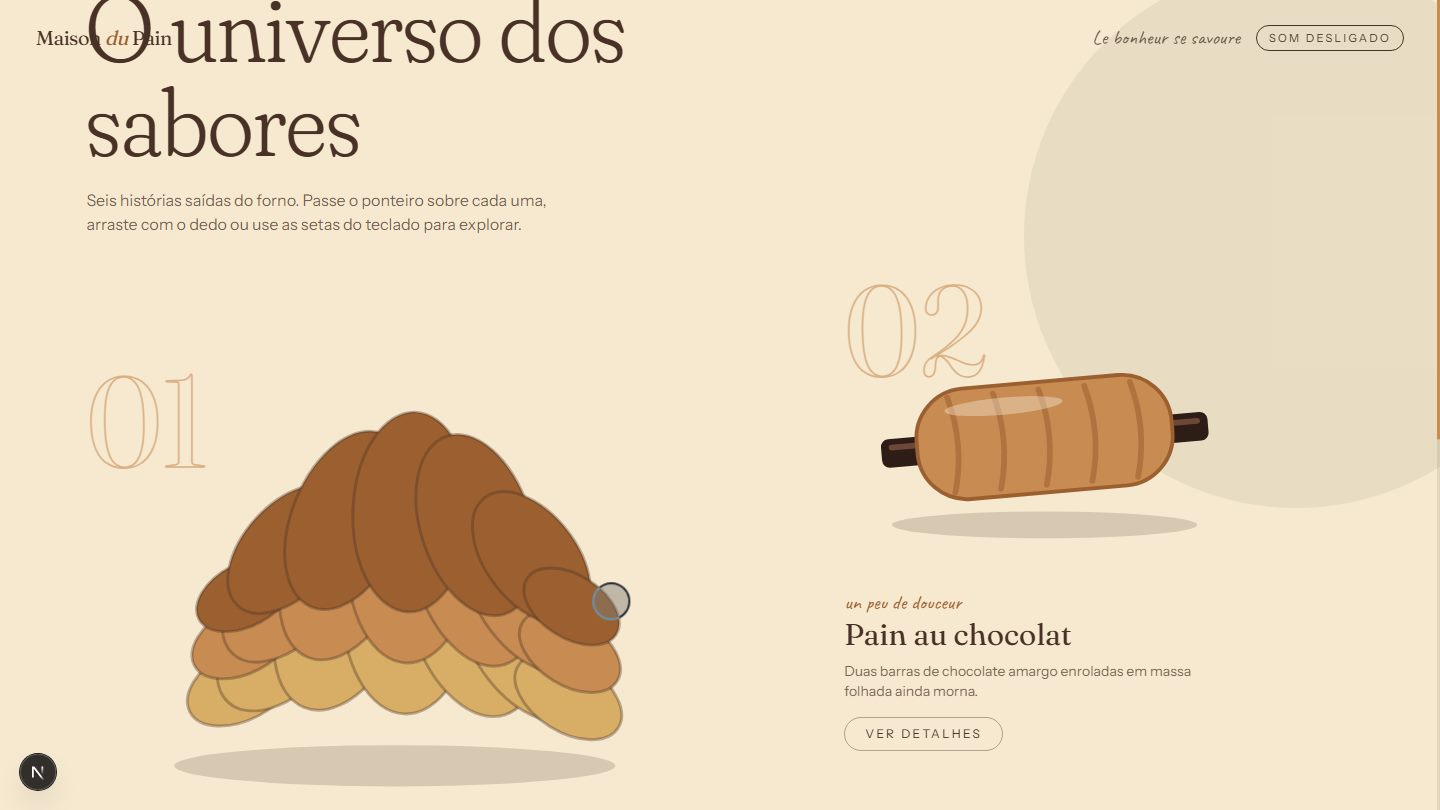
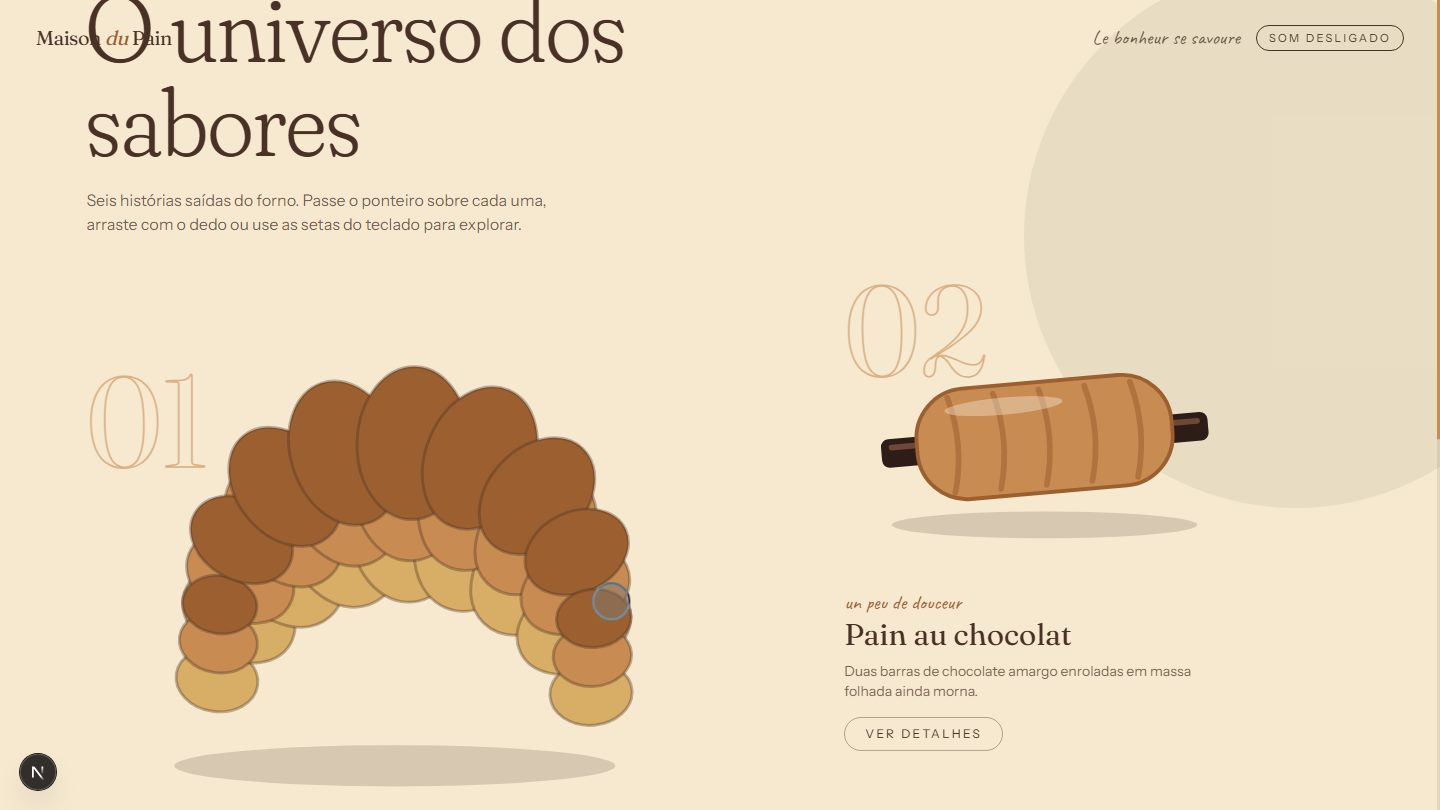
perf: replace svg grain filter with static texture and pause offscreen animations
Add a portrait framing for the exterior scenes, refine the baguette, 2D croissant and bread finale, and fix the header tone on the dark final scene.

Changed region(s): [[0.125, 0.4321, 0.4375, 0.9259]]

diff --git a/src/components/scenes/flavors/illustrations/Breads.tsx b/src/components/scenes/flavors/illustrations/Breads.tsx
@@ -1,4 +1,4 @@
-const LOAF = "M30 124Q30 92 72 86L486 58Q538 56 538 88Q538 118 486 128L72 156Q30 158 30 124Z";
+const LOAF = "M20 128Q34 96 90 86L482 52Q548 48 548 88Q548 126 482 136L90 160Q34 158 20 128Z";
 const SCORES = [96, 186, 276, 366, 446];
 const CRUMB_HOLES = [
   [90, 112, 9], [150, 100, 6], [210, 118, 11], [262, 96, 7], [320, 110, 10], [376, 92, 6], [430, 104, 9], [490, 90, 7],
@@ -13,21 +13,32 @@ export function BaguetteArt() {
           <stop offset="0" stopColor="var(--color-gold)" />
           <stop offset="1" stopColor="var(--color-crust)" />
         </linearGradient>
+        <linearGradient id="crumbTone" x1="0" y1="0" x2="0" y2="1">
+          <stop offset="0" stopColor="var(--color-cream)" />
+          <stop offset="1" stopColor="var(--color-butter)" />
+        </linearGradient>
+        <clipPath id="loafClip">
+          <path d={LOAF} />
+        </clipPath>
       </defs>
       <g className="fb" style={{ transform: "rotate(-7deg)" }}>
         <ellipse cx="285" cy="176" rx="250" ry="12" fill="var(--color-chocolate)" opacity="0.18" />
         <path d={LOAF} fill="url(#crustTone)" stroke="var(--color-crust)" strokeWidth="4" />
         {SCORES.map((x) => (
-          <path key={x} d={`M${x} 124Q${x + 30} 82 ${x + 62} 78`} stroke="var(--color-cream)" strokeWidth="9" fill="none" strokeLinecap="round" opacity="0.8" />
+          <path key={x} d={`M${x} 126Q${x + 30} 86 ${x + 62} 80`} stroke="var(--color-cream)" strokeWidth="9" fill="none" strokeLinecap="round" opacity="0.8" />
         ))}
         {/* Miolo: o clip-path revela a textura interna conforme o ponteiro avança pela baguete. */}
         <g className="fb" style={{ clipPath: "inset(0 calc((1 - var(--v)) * 100%) 0 0)" }}>
-          <path d={LOAF} fill="var(--color-cream)" stroke="var(--color-butter)" strokeWidth="4" />
-          {CRUMB_HOLES.map(([x, y, r]) => (
-            <ellipse key={`${x}-${y}`} cx={x} cy={y} rx={r * 1.3} ry={r} fill="var(--color-butter)" stroke="var(--color-gold)" strokeOpacity="0.5" strokeWidth="1.5" />
-          ))}
+          <g clipPath="url(#loafClip)">
+            <rect x="0" y="40" width="570" height="130" fill="url(#crumbTone)" />
+            {CRUMB_HOLES.map(([x, y, r]) => (
+              <ellipse key={`${x}-${y}`} cx={x} cy={y} rx={r * 1.3} ry={r} fill="var(--color-butter)" stroke="var(--color-gold)" strokeOpacity="0.55" strokeWidth="1.5" />
+            ))}
+            {/* A casca aparece como aro dourado no corte; o clip mantém só a metade interna do traço. */}
+            <path d={LOAF} fill="none" stroke="url(#crustTone)" strokeWidth="18" />
+          </g>
         </g>
-        <rect x="26" y="50" width="4" height="116" rx="2" fill="var(--color-cream)" style={{ transform: "translateX(calc(var(--v) * 510px))" }} opacity="0.9" />
+        <rect x="26" y="40" width="4" height="132" rx="2" fill="var(--color-cream)" style={{ transform: "translateX(calc(var(--v) * 510px))" }} opacity="0.9" />
       </g>
     </svg>
   );

diff --git a/src/components/scenes/awakening/Illustration.tsx b/src/components/scenes/awakening/Illustration.tsx
@@ -1,4 +1,5 @@
-import { VIEWBOX, type LayerId } from "@/config/awakening";
+import { VIEWBOX, VIEWBOX_PORTRAIT, type LayerId } from "@/config/awakening";
+import { useMediaQuery } from "@/hooks/useMediaQuery";
 import { Clouds, Sky, Town } from "./layers/Backdrop";
 import { Facade } from "./layers/Facade";
 import { Foreground, Trees } from "./layers/Flora";
@@ -18,19 +19,19 @@ function Layer({ id, children }: { id: LayerId; children: ReactNode }) {
 }
 
 export function Illustration({ dusk = false }: { dusk?: boolean }) {
+  // Em retrato o viewBox fica alto e estreito: a fachada inteira cabe, em vez de só a janela central.
+  const portrait = useMediaQuery("(max-aspect-ratio: 4/5)");
+  const box = portrait ? VIEWBOX_PORTRAIT : { x: 0, y: 0, ...VIEWBOX };
+
   return (
     <svg
-      viewBox={`0 0 ${VIEWBOX.width} ${VIEWBOX.height}`}
+      viewBox={`${box.x} ${box.y} ${box.width} ${box.height}`}
       preserveAspectRatio="xMidYMid slice"
       className="absolute inset-0 h-full w-full"
       role="img"
       aria-label={dusk ? "Ilustração da fachada da Maison du Pain ao entardecer: janelas acesas, rua de paralelepípedos dourada e mesas na calçada." : "Ilustração da fachada da Maison du Pain ao amanhecer: sobrado francês com flores nas janelas, mesas na calçada, árvores e uma chaminé soltando fumaça."}
     >
       <defs>
-        <filter id="paperGrain" x="0" y="0" width="100%" height="100%">
-          <feTurbulence type="fractalNoise" baseFrequency="0.9" numOctaves="2" seed="7" />
-          <feColorMatrix values="0 0 0 0 0.29  0 0 0 0 0.19  0 0 0 0 0.15  0 0 0 0.9 -0.28" />
-        </filter>
         <radialGradient id="vignette" cx="50%" cy="50%" r="75%">
           <stop offset="0.55" stopColor="var(--color-chocolate)" stopOpacity="0" />
           <stop offset="1" stopColor="var(--color-chocolate)" stopOpacity="0.35" />
@@ -46,9 +47,8 @@ export function Illustration({ dusk = false }: { dusk?: boolean }) {
       <Layer id="props"><Props /></Layer>
       <Layer id="foreground"><Foreground /></Layer>
 
-      <rect data-fx="dawnTint" width={VIEWBOX.width} height={VIEWBOX.height} fill={dusk ? "var(--color-dusk)" : "var(--color-rose)"} style={{ opacity: dusk ? 0 : 0.38, mixBlendMode: "multiply" }} />
-      <rect width={VIEWBOX.width} height={VIEWBOX.height} fill="url(#vignette)" />
-      <rect className="grain" width={VIEWBOX.width} height={VIEWBOX.height} filter="url(#paperGrain)" opacity="0.5" style={{ mixBlendMode: "multiply" }} />
+      <rect data-fx="dawnTint" x={box.x} y={box.y} width={box.width} height={box.height} fill={dusk ? "var(--color-dusk)" : "var(--color-rose)"} style={{ opacity: dusk ? 0 : 0.38, mixBlendMode: "multiply" }} />
+      <rect x={box.x} y={box.y} width={box.width} height={box.height} fill="url(#vignette)" />
     </svg>
   );
 }

diff --git a/src/components/scenes/process/layers/Kitchen.tsx b/src/components/scenes/process/layers/Kitchen.tsx
@@ -152,6 +152,9 @@ export function Oven() {
       <path d="M1160 700V540A140 140 0 0 1 1440 540V700Z" fill="url(#processBricks)" stroke="var(--color-ink)" strokeOpacity="0.4" strokeWidth="3" />
       <path d={OVEN_MOUTH_PATH} fill="var(--color-ink)" />
       <path data-el="glow" d={OVEN_MOUTH_PATH} fill="url(#processFire)" />
+      {[0, 1, 2, 3, 4].map((i) => (
+        <circle key={i} className="amb-spark" cx={1262 + i * 19} cy={620 - (i % 2) * 14} r={2.2 + (i % 3)} fill="var(--color-gold)" style={{ ["--delay" as string]: `${i * 0.5}s` }} />
+      ))}
       <g clipPath="url(#ovenMouthClip)">
         <g data-el="door">
           <path d={OVEN_MOUTH_PATH} fill="var(--color-chocolate)" stroke="var(--color-ink)" strokeWidth="5" />
@@ -166,7 +169,12 @@ export function Oven() {
 export function Bread() {
   return (
     <g data-el="bread" style={{ opacity: 0 }}>
-      <ellipse cx="0" cy="8" rx="120" ry="16" fill="var(--color-ink)" opacity="0.25" />
+      <ellipse cx="0" cy="14" rx="150" ry="20" fill="var(--color-ink)" opacity="0.25" />
+      <path d="M-150 2Q-150 -8 -138 -8H138Q150 -8 150 2V10Q150 20 138 20H-138Q-150 20 -150 10Z" fill="var(--color-crust)" stroke="var(--color-chocolate)" strokeWidth="3" />
+      <rect x="-146" y="-8" width="292" height="6" rx="3" fill="var(--color-gold)" opacity="0.7" />
+      {[[-96, -14, 4], [-60, -12, 3], [70, -13, 4], [104, -11, 3], [128, -12, 2.5]].map(([x, y, r]) => (
+        <circle key={`${x}-${y}`} cx={x} cy={y} r={r} fill="var(--color-cream)" opacity="0.85" />
+      ))}
       <defs>
         <radialGradient id="processBoule" cx="42%" cy="30%" r="80%">
           <stop offset="0" stopColor="var(--color-gold)" />

diff --git a/src/components/scenes/flavors/illustrations/Pastries.tsx b/src/components/scenes/flavors/illustrations/Pastries.tsx
@@ -1,24 +1,29 @@
 /** Cada ilustração lê `--v`, `--px` e `--py` do `ProductStage` que a envolve. */
 
-const SEGMENTS = Array.from({ length: 7 }, (_, index) => {
-  const t = (index - 3) / 3;
-  const theta = t * 1.05;
-  const size = 0.38 + 0.62 * Math.cos((t * Math.PI) / 2);
+/**
+ * Cristas ao longo de um arco em "∩" cujas pontas se enrolam para baixo, como as pontas do croissant.
+ * Cada crista é alongada na direção radial (perpendicular ao arco) e as vizinhas se sobrepõem.
+ */
+const ARC_RADIUS = 128;
+const ARC_CENTER = { x: 210, y: 196 };
+const SEGMENTS = Array.from({ length: 9 }, (_, index) => {
+  const t = (index - 4) / 4;
+  const phi = t * (84 * Math.PI) / 180;
+  const size = 0.3 + 0.7 * Math.pow(Math.cos((t * Math.PI) / 2), 0.9);
   return {
     key: index,
-    x: 210 + 128 * Math.sin(theta),
-    y: 120 + 120 * (1 - Math.cos(theta)),
-    // A crista é perpendicular ao arco: inclina para dentro, não para fora.
-    angle: (-theta * 180) / Math.PI,
-    rx: 30 * size + 10,
-    ry: 52 * size + 16,
+    x: ARC_CENTER.x + ARC_RADIUS * Math.sin(phi),
+    y: ARC_CENTER.y - ARC_RADIUS * Math.cos(phi),
+    angle: (phi * 180) / Math.PI,
+    rx: 26 * size + 12,
+    ry: 38 * size + 14,
   };
 });
 
 const CROISSANT_LAYERS = [
-  { fill: "var(--color-gold)", offset: 36, grow: 1.12 },
-  { fill: "var(--color-caramel)", offset: 0, grow: 1.06 },
-  { fill: "var(--color-crust)", offset: -36, grow: 1 },
+  { fill: "var(--color-gold)", offset: 30, grow: 1.1 },
+  { fill: "var(--color-caramel)", offset: 0, grow: 1.05 },
+  { fill: "var(--color-crust)", offset: -30, grow: 1 },
 ] as const;
 
 export function CroissantArt() {

diff --git a/src/components/scenes/process/Scene05Process.tsx b/src/components/scenes/process/Scene05Process.tsx
@@ -2,6 +2,7 @@
 
 import { useRef } from "react";
 import { STAGES } from "@/config/process";
+import { Grain } from "@/components/ui/Grain";
 import { useReducedMotion } from "@/hooks/useMediaQuery";
 import { Illustration } from "./Illustration";
 import { useProcessTimeline } from "./useProcessTimeline";
@@ -14,6 +15,7 @@ export function Scene05Process() {
   return (
     <section ref={rootRef} data-scene="process" data-static={reduced} aria-labelledby="processo" className="relative h-svh w-full overflow-hidden bg-butter">
       <Illustration />
+      <Grain />
 
       <div data-ui="captionA" className="pointer-events-none absolute inset-x-0 top-[12svh] z-10 px-6 text-center will-change-transform" style={{ opacity: reduced ? 1 : 0 }}>
         <h2
@@ -31,6 +33,15 @@ export function Scene05Process() {
         style={{ opacity: reduced ? 1 : 0 }}
       >
         Está no tempo, no cuidado e no amor por cada detalhe.
+      </p>
+
+      <p
+        data-ui="captionC"
+        lang="fr"
+        className="pointer-events-none absolute inset-x-0 top-[14svh] z-10 px-6 text-center font-hand text-[clamp(2rem,4.4vw,3.8rem)] text-chocolate will-change-transform"
+        style={{ opacity: reduced ? 0 : 0, textShadow: "0 2px 18px rgba(255,249,239,.7)" }}
+      >
+        Chaque bouchée raconte une histoire.
       </p>
 
       <ol aria-label="Etapas do processo" className="absolute bottom-[3svh] left-1/2 z-10 flex w-max max-w-[94vw] -translate-x-1/2 flex-wrap justify-center gap-x-5 gap-y-1 rounded-3xl bg-cream/85 px-5 py-2 text-[0.7rem] uppercase tracking-[0.22em] text-chocolate/75 shadow-sm backdrop-blur sm:gap-x-8">

diff --git a/tests/awakening.spec.ts b/tests/awakening.spec.ts
@@ -297,3 +297,23 @@ test.describe("acessibilidade e preferências", () => {
     await expect(page.getByRole("link", { name: "Ir para o conteúdo" })).toHaveCount(1);
   });
 });
+
+test("cena 01 e 06 em retrato mostram a fachada inteira", async ({ browser }) => {
+  const context = await browser.newContext({ viewport: { width: 390, height: 844 }, reducedMotion: "no-preference", hasTouch: true });
+  const page = await context.newPage();
+  await skipLoader(page);
+  await page.waitForTimeout(2_000);
+  await page.screenshot({ path: `${SHOTS}/mobile-abertura.png` });
+  await page.evaluate(() => {
+    const section = document.querySelector("[data-scene='return']");
+    const spacer = section?.closest(".pin-spacer") ?? section;
+    if (!spacer) throw new Error("Cena 06 não encontrada");
+    window.scrollTo(0, spacer.getBoundingClientRect().top + window.scrollY + 4.9 * window.innerHeight);
+  });
+  await page.waitForTimeout(1_500);
+  await page.screenshot({ path: `${SHOTS}/mobile-retorno.png` });
+  await expect(page.getByRole("button", { name: "Faça seu pedido" })).toBeVisible();
+  await expect(page.getByRole("banner")).toHaveAttribute("data-tone", "light");
+  expect(await page.evaluate(() => document.documentElement.scrollWidth - window.innerWidth)).toBeLessThanOrEqual(0);
+  await context.close();
+});

diff --git a/src/components/scenes/process/Illustration.tsx b/src/components/scenes/process/Illustration.tsx
@@ -12,10 +12,6 @@ export function Illustration() {
       aria-label="Ilustração do processo do pão: campo de trigo ao amanhecer, grãos caindo no moinho, farinha na tigela, massa que cresce, forno de tijolos e um pão dourado."
     >
       <defs>
-        <filter id="processGrain" x="0" y="0" width="100%" height="100%">
-          <feTurbulence type="fractalNoise" baseFrequency="0.9" numOctaves="2" seed="23" />
-          <feColorMatrix values="0 0 0 0 0.29  0 0 0 0 0.19  0 0 0 0 0.15  0 0 0 0.9 -0.28" />
-        </filter>
         <radialGradient id="processFinalGlow" cx="80%" cy="68%" r="70%">
           <stop offset="0" stopColor="var(--color-gold)" stopOpacity="0.9" />
           <stop offset="1" stopColor="var(--color-gold)" stopOpacity="0" />
@@ -57,7 +53,6 @@ export function Illustration() {
 
       <rect data-el="finalGlow" width={PROCESS_VIEWBOX.width} height={PROCESS_VIEWBOX.height} fill="url(#processFinalGlow)" style={{ opacity: 0, mixBlendMode: "screen" }} />
       <rect width={PROCESS_VIEWBOX.width} height={PROCESS_VIEWBOX.height} fill="url(#processVignette)" />
-      <rect className="grain" width={PROCESS_VIEWBOX.width} height={PROCESS_VIEWBOX.height} filter="url(#processGrain)" opacity="0.5" style={{ mixBlendMode: "multiply" }} />
     </svg>
   );
 }

diff --git a/src/components/scenes/bakery/Interior.tsx b/src/components/scenes/bakery/Interior.tsx
@@ -17,10 +17,6 @@ export function Interior() {
       aria-label="Ilustração do interior da padaria: uma padeira de avental verde sova a massa sobre a bancada de madeira, com forno de tijolos, prateleiras e lâmpadas acesas ao fundo."
     >
       <defs>
-        <filter id="bakeryGrain" x="0" y="0" width="100%" height="100%">
-          <feTurbulence type="fractalNoise" baseFrequency="0.9" numOctaves="2" seed="11" />
-          <feColorMatrix values="0 0 0 0 0.29  0 0 0 0 0.19  0 0 0 0 0.15  0 0 0 0.9 -0.28" />
-        </filter>
         <radialGradient id="cozyVignette" cx="50%" cy="48%" r="75%">
           <stop offset="0.5" stopColor="var(--color-chocolate)" stopOpacity="0" />
           <stop offset="1" stopColor="var(--color-chocolate)" stopOpacity="0.45" />
@@ -31,7 +27,6 @@ export function Interior() {
       <Layer id="main"><Main /></Layer>
       <Layer id="foreground"><Foreground /></Layer>
       <rect width={BAKERY_VIEWBOX.width} height={BAKERY_VIEWBOX.height} fill="url(#cozyVignette)" />
-      <rect className="grain" width={BAKERY_VIEWBOX.width} height={BAKERY_VIEWBOX.height} filter="url(#bakeryGrain)" opacity="0.5" style={{ mixBlendMode: "multiply" }} />
     </svg>
   );
 }

diff --git a/src/hooks/useScrubbedScene.ts b/src/hooks/useScrubbedScene.ts
@@ -23,9 +23,15 @@ export function useScrubbedScene(rootRef: RefObject<HTMLElement | null>, options
     if (!root) return;
     const render = setup(root);
 
+    // Animações ambientais (nuvens, flores, trigo) fora da tela só gastam quadros: pausa via CSS.
+    const visibility = new IntersectionObserver(([entry]) => {
+      root.dataset.offscreen = String(!(entry?.isIntersecting ?? true));
+    });
+    visibility.observe(root);
+
     if (!enabled) {
       render(staticProgress);
-      return;
+      return () => visibility.disconnect();
     }
 
     const ctx = gsap.context(() => {
@@ -49,6 +55,9 @@ export function useScrubbedScene(rootRef: RefObject<HTMLElement | null>, options
 
     // Fontes e ilustrações alteram alturas após a hidratação; recalcula os pontos de pin.
     ScrollTrigger.refresh();
-    return () => ctx.revert();
+    return () => {
+      ctx.revert();
+      visibility.disconnect();
+    };
   }, [rootRef, enabled, screens, setup, staticProgress]);
 }

diff --git a/src/components/layout/Header.tsx b/src/components/layout/Header.tsx
@@ -19,15 +19,16 @@ export function Header() {
     });
     // A cena final é escura: o cabeçalho troca para a versão clara enquanto ela ocupa o topo.
     const header = headerRef.current;
-    const tone = ScrollTrigger.create({
-      trigger: "[data-scene='return']",
-      start: "top 6%",
-      end: "bottom 6%",
-      onToggle: (self) => header?.setAttribute("data-tone", self.isActive ? "light" : "dark"),
-    });
+    const finale = document.querySelector("[data-scene='return']");
+    const tone = new IntersectionObserver(
+      ([entry]) => header?.setAttribute("data-tone", entry?.isIntersecting ? "light" : "dark"),
+      // Faixa fina no topo da tela, onde o cabeçalho fica: independe de pin ou espaçadores do ScrollTrigger.
+      { rootMargin: "-4% 0px -95% 0px" },
+    );
+    if (finale) tone.observe(finale);
     return () => {
       trigger.kill();
-      tone.kill();
+      tone.disconnect();
     };
   }, []);
 

diff --git a/src/components/scenes/finale/Scene06Return.tsx b/src/components/scenes/finale/Scene06Return.tsx
@@ -2,6 +2,7 @@
 
 import { useRef, useState } from "react";
 import { MagneticButton } from "@/components/ui/MagneticButton";
+import { Grain } from "@/components/ui/Grain";
 import { useDeviceTier } from "@/hooks/useDeviceTier";
 import { useFinePointer, useReducedMotion } from "@/hooks/useMediaQuery";
 import { Illustration } from "../awakening/Illustration";
@@ -31,6 +32,7 @@ export function Scene06Return() {
   return (
     <section ref={rootRef} data-scene="return" aria-labelledby="retorno" className="relative h-svh w-full overflow-hidden bg-chocolate">
       <Illustration dusk />
+      <Grain />
 
       <div data-ui="headline" className="pointer-events-none absolute inset-x-0 top-[9svh] z-10 px-6 text-center will-change-transform" style={{ opacity: reduced ? 1 : 0 }}>
         <h2

diff --git a/src/components/scenes/bakery/Scene02Bakery.tsx b/src/components/scenes/bakery/Scene02Bakery.tsx
@@ -1,6 +1,7 @@
 "use client";
 
 import { useRef } from "react";
+import { Grain } from "@/components/ui/Grain";
 import { useReducedMotion } from "@/hooks/useMediaQuery";
 import { Interior } from "./Interior";
 import { useBakeryTimeline } from "./useBakeryTimeline";
@@ -13,6 +14,7 @@ export function Scene02Bakery() {
   return (
     <section ref={rootRef} data-scene="bakery" aria-labelledby="interior" className="relative h-svh w-full overflow-hidden bg-butter">
       <Interior />
+      <Grain />
 
       <div data-ui="captionA" className="absolute left-[6vw] top-[16svh] z-10 max-w-[30ch] will-change-transform" style={{ opacity: reduced ? 1 : 0 }}>
         <p lang="fr" className="font-hand text-[clamp(1.8rem,3.6vw,3.2rem)] leading-tight text-chocolate">
